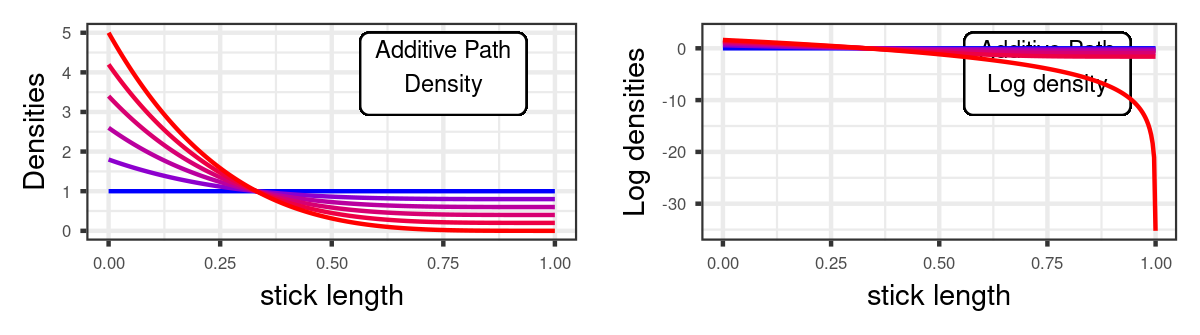
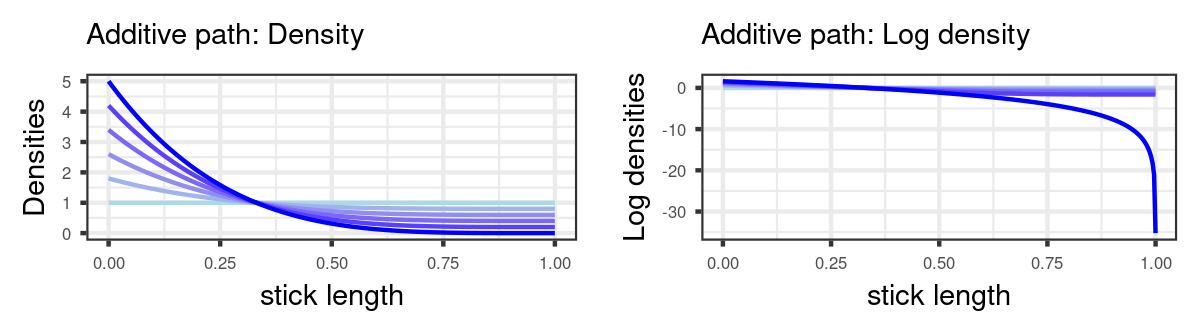
fix path figures

diff --git a/writing/ISBA_slides_Apr2021/figs.tex b/writing/ISBA_slides_Apr2021/figs.tex
@@ -11,15 +11,14 @@
 
 \newcommand{\FunctionPathsMultFig}{
 
+%<<mult_path, cache=cache, fig.show='hold', fig.cap=fig_cap>>=
 \begin{knitrout}
-\definecolor{shadecolor}{rgb}{0.969, 0.969, 0.969}\color{fgcolor}\begin{figure}[!h]
+\definecolor{shadecolor}{rgb}{0.969, 0.969, 0.969}\color{fgcolor}
 
 {\centering \includegraphics[width=0.980\linewidth,height=0.274\linewidth]{figure/mult_path-1} 
 
 }
 
-\caption[Multiplicative mixture paths between two densities]{Multiplicative mixture paths between two densities.}\label{fig:mult_path}
-\end{figure}
 
 
 \end{knitrout}
@@ -28,15 +27,14 @@
 
 \newcommand{\FunctionPathsLinFig}{
 
+%<<lin_path, cache=cache, fig.show='hold', fig.cap=fig_cap>>=
 \begin{knitrout}
-\definecolor{shadecolor}{rgb}{0.969, 0.969, 0.969}\color{fgcolor}\begin{figure}[!h]
+\definecolor{shadecolor}{rgb}{0.969, 0.969, 0.969}\color{fgcolor}
 
 {\centering \includegraphics[width=0.980\linewidth,height=0.274\linewidth]{figure/lin_path-1} 
 
 }
 
-\caption[Linear mixture paths between two densities]{Linear mixture paths between two densities.}\label{fig:lin_path}
-\end{figure}
 
 
 \end{knitrout}

diff --git a/writing/ISBA_slides_Apr2021/main.tex b/writing/ISBA_slides_Apr2021/main.tex
@@ -99,6 +99,7 @@ Bayesian Nonparametrics}
 
 \begin{frame}
 \FunctionPathsMultFig{}
+\FunctionPathsLinFig{}
 \end{frame}
 
 
